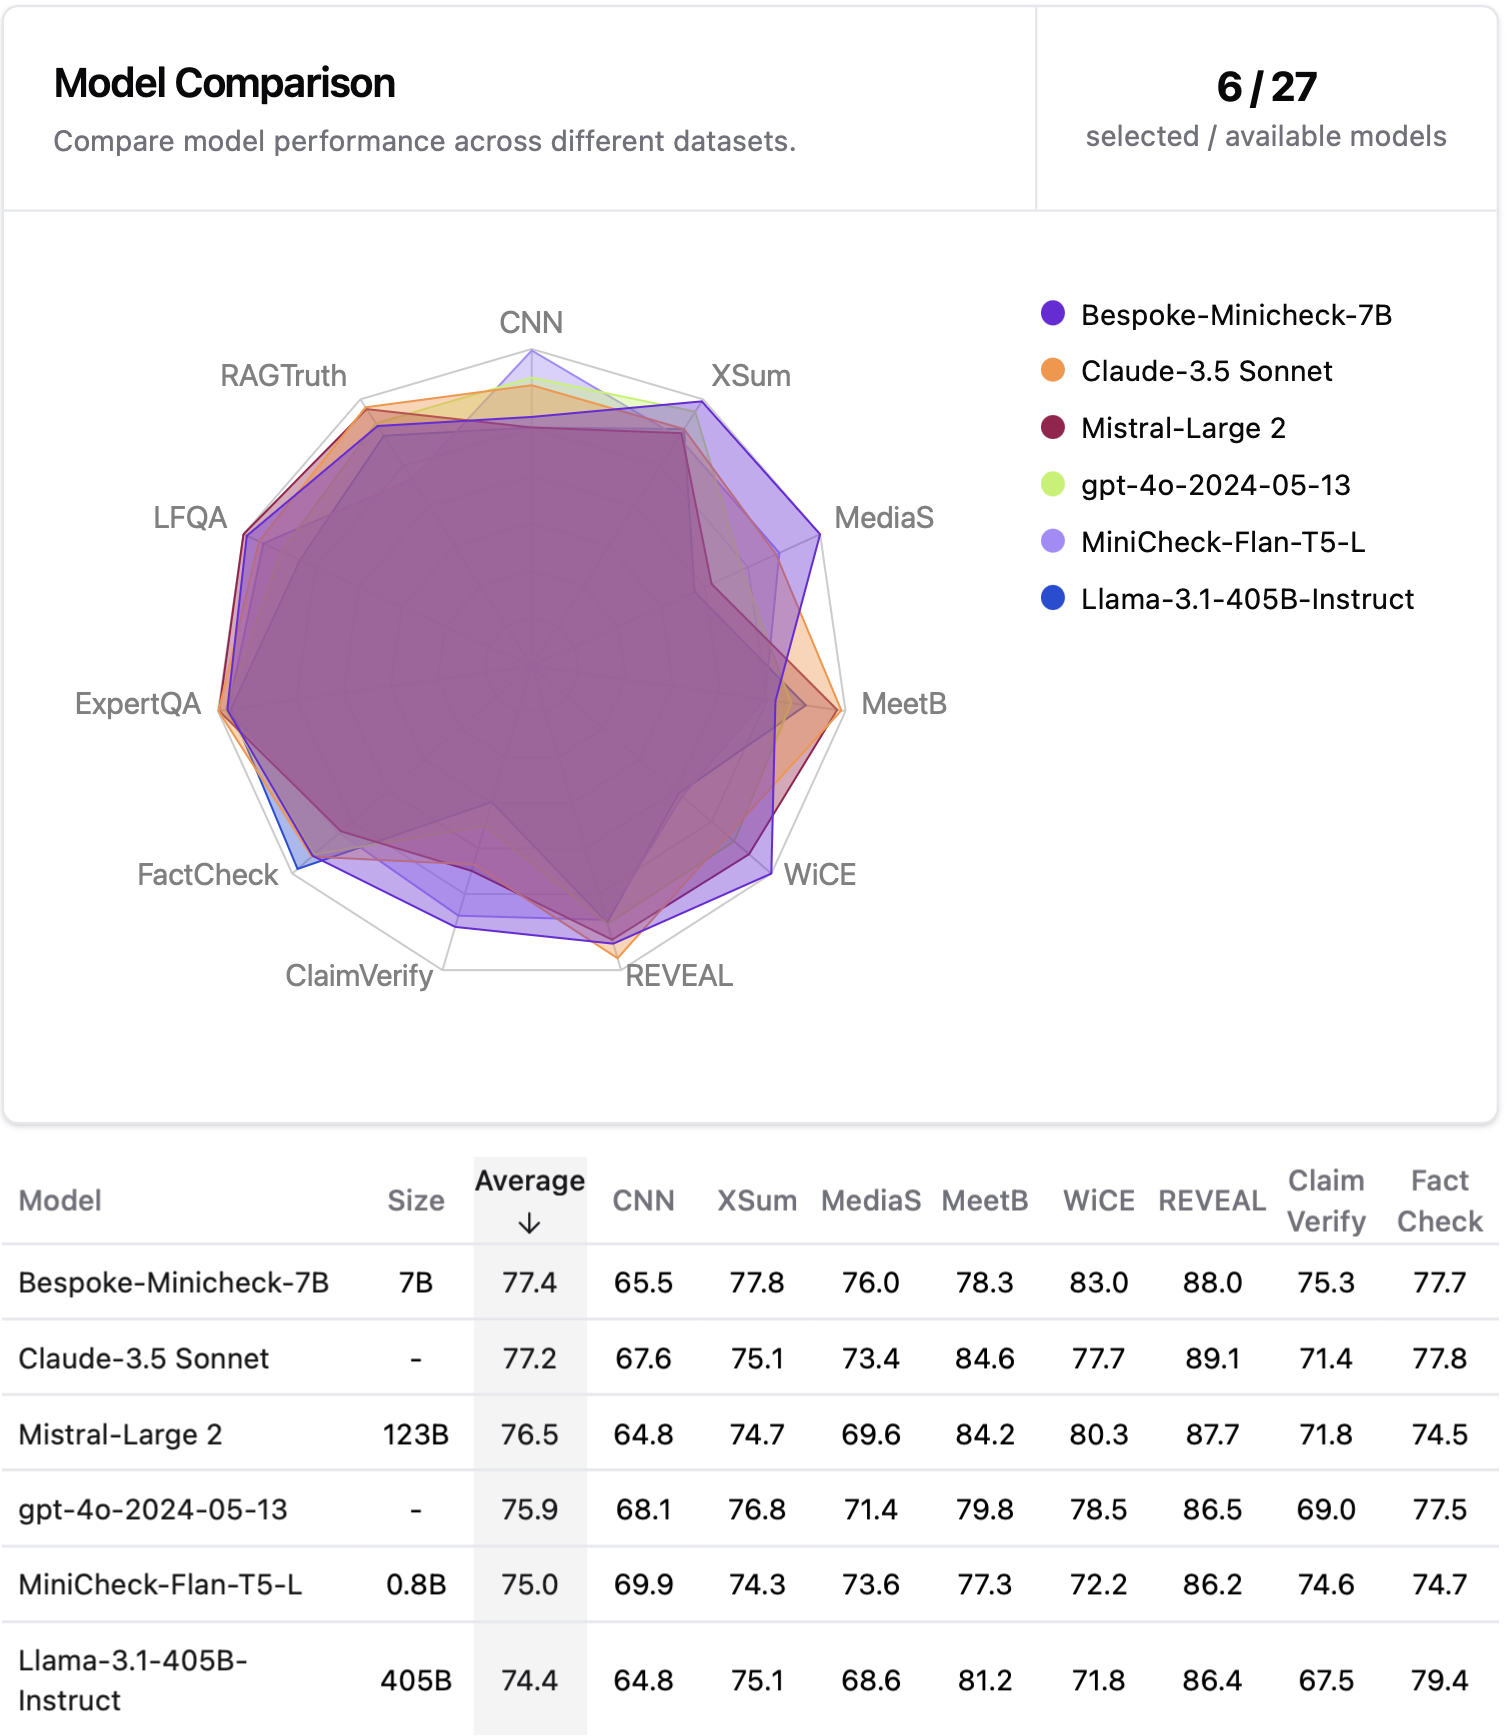
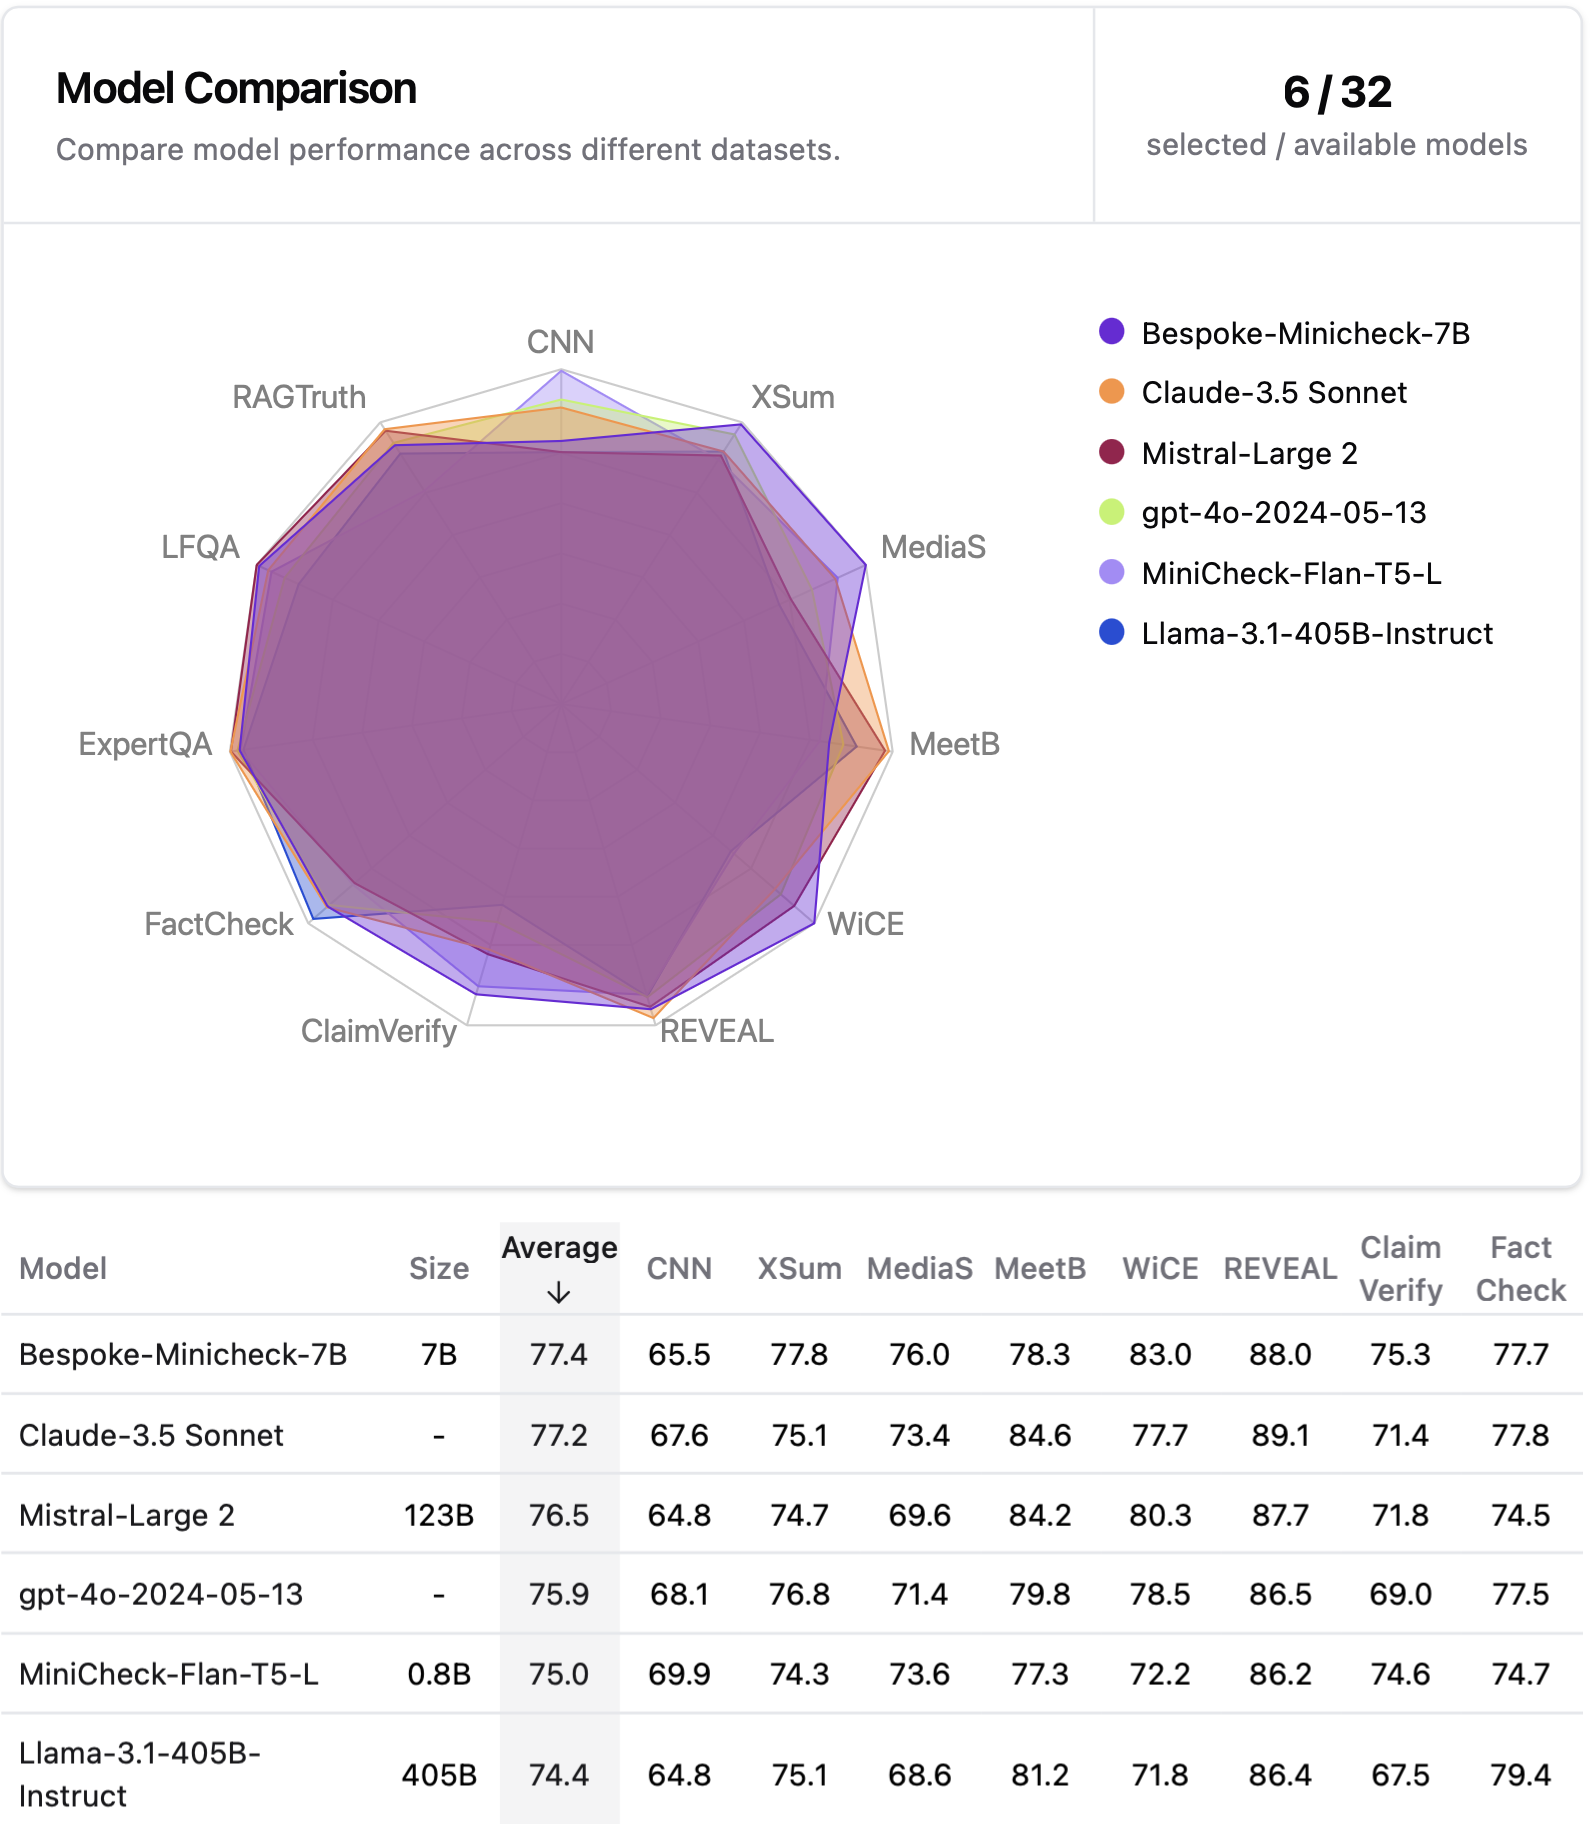
update leaderboard

diff --git a/README.md b/README.md
@@ -17,11 +17,11 @@ Please check out our work [here](https://arxiv.org/pdf/2404.10774.pdf) 📃
 
 - [2024/08] A notebook for using MiniCheck is available [![Colab](https://colab.research.google.com/assets/colab-badge.svg)](https://colab.research.google.com/drive/1s-5TYnGV3kGFMLp798r5N-FXPD8lt2dm?usp=sharing)
 
-- [2024/08] We release the [LLM-AggreFact leaderboard](https://llm-aggrefact.github.io), which currently contains the performance of 27 models on the LLM-AggreFact benchmark, including Llama-3.1, Mistral Large 2 and Claude-3.5.
+- [2024/08] We release the [LLM-AggreFact leaderboard](https://llm-aggrefact.github.io), which currently contains the performance of 32 models on the LLM-AggreFact benchmark, including Qwen-2.5, Llama-3.2, Llama-3.1, Mistral Large 2 and Claude-3.5.
 
 - [2024/08] We includ one additional dataset [RAGTruth](https://arxiv.org/pdf/2401.00396) to our benchmark. We convert the dataset to the same format as in our benchmark and removed those non-checkworthy claims. 
 
-- [2024/08] A stronger model, `Bespoke-MiniCheck-7B`, is now [available](https://huggingface.co/bespokelabs/Bespoke-MiniCheck-7B) on HuggingFace for fact-checking. More details at this [blog post](https://llm-aggrefact.github.io/blog). It's the current SOTA and is commercially useable! Please contact company@bespokelabs.ai for commercial use.
+- [2024/08] We developed a stronger model, `Bespoke-MiniCheck-7B`, which is now [available](https://huggingface.co/bespokelabs/Bespoke-MiniCheck-7B) on HuggingFace for fact-checking. More details at this [blog post](https://llm-aggrefact.github.io/blog). It's the current SOTA and is commercially useable! Please contact company@bespokelabs.ai for commercial use.
 
 - [2024/08] We enable [automic prefix caching](https://docs.vllm.ai/en/latest/automatic_prefix_caching/apc.html) for much faster inference when repeatedly using the same document for fact-checking.
 
